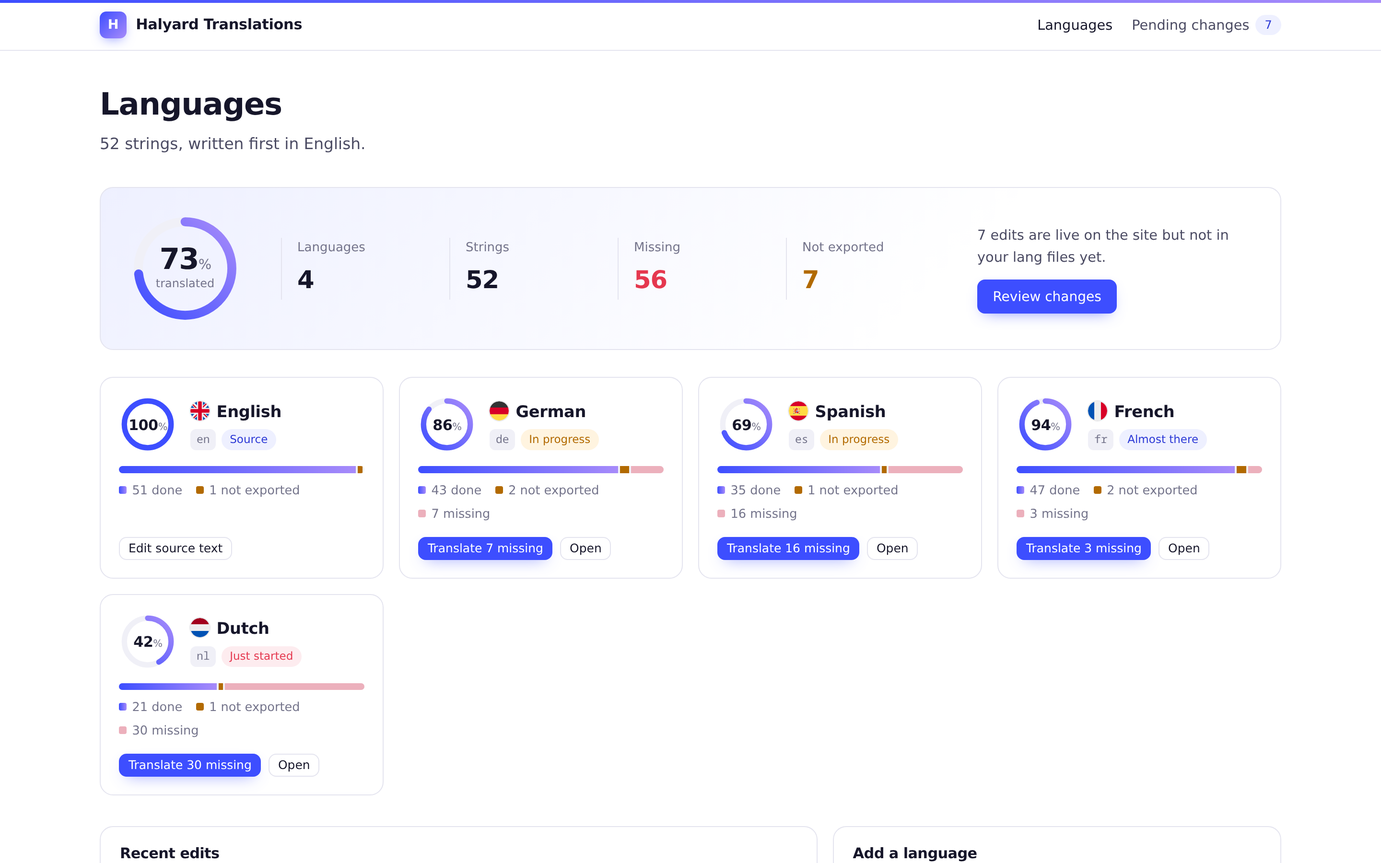
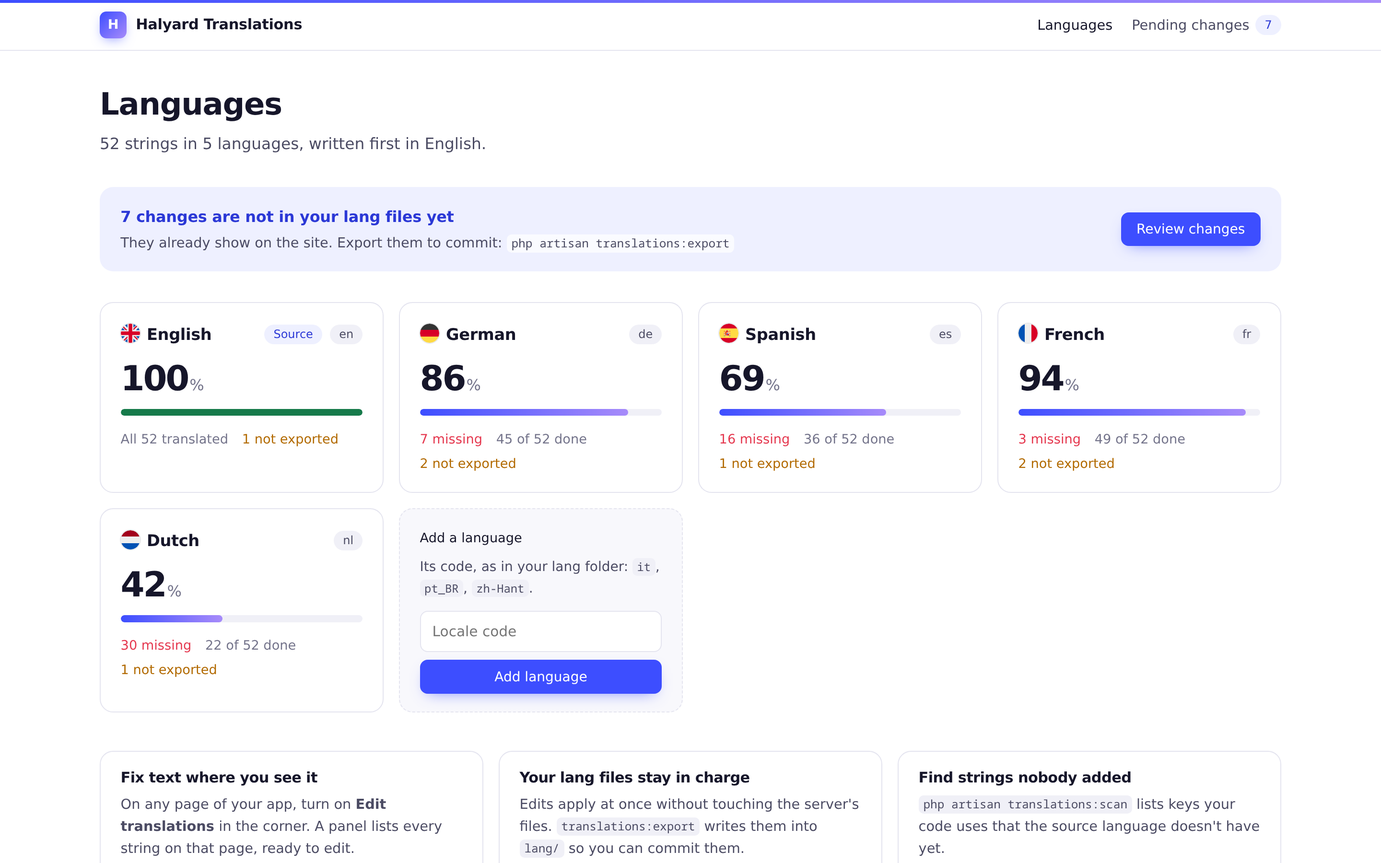
Languages dashboard: back to the 1.0 layout, keeping the round flags

diff --git a/demo/demo.js b/demo/demo.js
@@ -53,7 +53,7 @@
 
     document.addEventListener('DOMContentLoaded', () => {
         // The locale switcher submits to the overview with ?locale=xx.
-        if (params.get('locale') && document.querySelector('.trans-langs')) {
+        if (params.get('locale') && document.querySelector('.trans-cards')) {
             location.replace(location.pathname.replace(/\/?$/, '/') + encodeURIComponent(params.get('locale')) + '/');
             return;
         }

diff --git a/resources/views/index.blade.php b/resources/views/index.blade.php
@@ -3,160 +3,83 @@
 @section('title', 'Languages')
 
 @section('translations')
-    @php
-        $sourceProgress = $locales->firstWhere('code', $source)['progress'] ?? null;
-        $initials = fn (string $name) => collect(explode(' ', $name))->map(fn ($part) => mb_substr($part, 0, 1))->take(2)->implode('');
-        $status = fn ($progress) => match (true) {
-            $progress->isSource => ['Source', 'source'],
-            $progress->isComplete() => ['Complete', 'done'],
-            $progress->percent() >= 90 => ['Almost there', 'close'],
-            $progress->percent() >= 50 => ['In progress', 'going'],
-            default => ['Just started', 'early'],
-        };
-        // Ring geometry: r = 26, so the circumference is 2πr.
-        $circumference = 2 * M_PI * 26;
-    @endphp
+    @php($sourceProgress = $locales->firstWhere('code', $source)['progress'] ?? null)
 
     <div class="trans-head">
         <div>
             <h1>Languages</h1>
             <p class="trans-lede">
-                {{ number_format($sourceProgress?->total ?? 0) }} {{ ($sourceProgress?->total ?? 0) === 1 ? 'string' : 'strings' }}, written first in {{ \Ruvelo\Translations\Translations::localeName($source) }}.
+                {{ number_format($sourceProgress?->total ?? 0) }} {{ ($sourceProgress?->total ?? 0) === 1 ? 'string' : 'strings' }} in {{ $locales->count() }} {{ $locales->count() === 1 ? 'language' : 'languages' }}, written first in {{ \Ruvelo\Translations\Translations::localeName($source) }}.
             </p>
         </div>
     </div>
 
-    <svg width="0" height="0" style="position:absolute" aria-hidden="true" focusable="false">
-        <defs>
-            <linearGradient id="trans-ring-gradient" x1="0" y1="0" x2="1" y2="1">
-                <stop offset="0" style="stop-color: var(--trans-accent)"/>
-                <stop offset="1" style="stop-color: var(--trans-accent-2)"/>
-            </linearGradient>
-        </defs>
-    </svg>
-
-    <section class="trans-summary" aria-label="Summary">
-        <div class="trans-summary-ring">
-            <svg viewBox="0 0 64 64" aria-hidden="true">
-                <circle class="trans-ring-track" cx="32" cy="32" r="26"/>
-                <circle class="trans-ring-value" cx="32" cy="32" r="26" stroke-dasharray="{{ round($circumference * $overall['percent'] / 100, 2) }} {{ round($circumference, 2) }}"/>
-            </svg>
-            <span><strong>{{ $overall['percent'] }}<small>%</small></strong>translated</span>
+    @if ($pending > 0)
+        <div class="trans-callout">
+            <div>
+                <strong>{{ $pending }} {{ $pending === 1 ? 'change is' : 'changes are' }} not in your lang files yet</strong>
+                <p>They already show on the site. Export them to commit: <code>php artisan translations:export</code></p>
+            </div>
+            <a class="trans-btn" href="{{ route('translations.changes') }}">Review changes</a>
         </div>
-        <dl class="trans-summary-stats">
-            <div><dt>Languages</dt><dd>{{ $overall['languages'] }}</dd></div>
-            <div><dt>Strings</dt><dd>{{ number_format($sourceProgress?->total ?? 0) }}</dd></div>
-            <div><dt>Missing</dt><dd @class(['is-missing' => $overall['missing'] > 0])>{{ number_format($overall['missing']) }}</dd></div>
-            <div><dt>Not exported</dt><dd @class(['is-changed' => $pending > 0])>{{ number_format($pending) }}</dd></div>
-        </dl>
-        @if ($pending > 0)
-            <div class="trans-summary-action">
-                <p>{{ $pending === 1 ? 'One edit is' : $pending.' edits are' }} live on the site but not in your lang files yet.</p>
-                <a class="trans-btn" href="{{ route('translations.changes') }}">Review changes</a>
-            </div>
-        @else
-            <div class="trans-summary-action">
-                <p>Your lang files hold every edit. Nothing to export.</p>
-            </div>
-        @endif
-    </section>
+    @endif
 
-    <ul class="trans-langs">
+    <ul class="trans-cards">
         @foreach ($locales as $locale)
-            @php
-                $progress = $locale['progress'];
-                [$label, $tone] = $status($progress);
-                $percent = $progress->percent();
-                $done = max(0, $progress->translated - $progress->pending);
-                $width = fn (int $count) => $progress->total > 0 ? round($count / $progress->total * 100, 2) : 0;
-            @endphp
-            <li class="trans-lang trans-lang--{{ $tone }}">
-                <a class="trans-lang-link" href="{{ route('translations.editor', $locale['code']) }}" aria-label="Open {{ $locale['name'] }}">
-                    <span class="trans-lang-ring">
-                        <svg viewBox="0 0 64 64" aria-hidden="true">
-                            <circle class="trans-ring-track" cx="32" cy="32" r="26"/>
-                            <circle class="trans-ring-value" cx="32" cy="32" r="26" stroke-dasharray="{{ round($circumference * $percent / 100, 2) }} {{ round($circumference, 2) }}"/>
-                        </svg>
-                        <span>{{ $percent }}<small>%</small></span>
-                    </span>
-                    <span class="trans-lang-name">
+            @php($progress = $locale['progress'])
+            <li>
+                <a class="trans-card" href="{{ route('translations.editor', $locale['code']) }}">
+                    <span class="trans-card-top">
                         <strong>@if ($flag = \Ruvelo\Translations\Support\Flags::for($locale['code']))<img class="trans-flag" src="{{ $flag }}" alt="" width="20" height="20">@endif{{ $locale['name'] }}</strong>
-                        <span class="trans-lang-tags">
-                            <span class="trans-code">{{ $locale['code'] }}</span>
-                            <span class="trans-status trans-status--{{ $tone }}">{{ $label }}</span>
-                        </span>
+                        @if ($progress->isSource)
+                            <span class="trans-chip">Source</span>
+                        @endif
+                        <span class="trans-chip trans-chip--quiet">{{ $locale['code'] }}</span>
+                    </span>
+                    <span class="trans-percent">{{ $progress->percent() }}<small>%</small></span>
+                    <span class="trans-meter @if ($progress->isComplete()) trans-meter--done @endif" role="progressbar" aria-label="{{ $locale['name'] }} translated" aria-valuemin="0" aria-valuemax="100" aria-valuenow="{{ $progress->percent() }}"><span style="width: {{ $progress->percent() }}%"></span></span>
+                    <span class="trans-card-meta">
+                        @if ($progress->isComplete())
+                            <span>All {{ number_format($progress->total) }} translated</span>
+                        @else
+                            <span class="is-missing">{{ number_format($progress->missing()) }} missing</span>
+                            <span>{{ number_format($progress->translated) }} of {{ number_format($progress->total) }} done</span>
+                        @endif
+                        @if ($progress->pending > 0)
+                            <span class="is-changed">{{ $progress->pending }} not exported</span>
+                        @endif
                     </span>
                 </a>
-
-                <div class="trans-segments" role="img" aria-label="{{ number_format($done) }} translated, {{ number_format($progress->pending) }} not exported, {{ number_format($progress->missing()) }} missing">
-                    <span class="seg-done" style="width: {{ $width($done) }}%"></span>
-                    <span class="seg-pending" style="width: {{ $width($progress->pending) }}%"></span>
-                    <span class="seg-missing" style="width: {{ $width($progress->missing()) }}%"></span>
-                </div>
-                <p class="trans-legend">
-                    <span><i class="seg-done"></i>{{ number_format($done) }} done</span>
-                    @if ($progress->pending > 0)<span><i class="seg-pending"></i>{{ number_format($progress->pending) }} not exported</span>@endif
-                    @if ($progress->missing() > 0)<span><i class="seg-missing"></i>{{ number_format($progress->missing()) }} missing</span>@endif
-                </p>
-
-                <div class="trans-lang-actions">
-                    @if (! $progress->isSource && $progress->missing() > 0)
-                        <a class="trans-btn trans-btn--small" href="{{ route('translations.editor', ['locale' => $locale['code'], 'filter' => 'missing']) }}">Translate {{ number_format($progress->missing()) }} missing</a>
-                    @endif
-                    <a class="trans-btn trans-btn--quiet trans-btn--small" href="{{ route('translations.editor', $locale['code']) }}">{{ $progress->isSource ? 'Edit source text' : 'Open' }}</a>
-                </div>
             </li>
         @endforeach
+        <li>
+            <div class="trans-card trans-card--add">
+                <form method="post" action="{{ route('translations.locales.store') }}">
+                    @csrf
+                    <label for="trans-new-locale">Add a language</label>
+                    <p>Its code, as in your lang folder: <code>it</code>, <code>pt_BR</code>, <code>zh-Hant</code>.</p>
+                    <input id="trans-new-locale" type="text" name="code" value="{{ old('code') }}" placeholder="Locale code" required maxlength="20" autocomplete="off" spellcheck="false" @error('code') aria-invalid="true" aria-describedby="trans-new-locale-error" @enderror>
+                    @error('code')
+                        <p class="trans-error" id="trans-new-locale-error">{{ $message }}</p>
+                    @enderror
+                    <button type="submit">Add language</button>
+                </form>
+            </div>
+        </li>
     </ul>
 
-    <div class="trans-split">
-        <section class="trans-panel" aria-labelledby="trans-recent-title">
-            <h2 id="trans-recent-title">Recent edits</h2>
-            @if ($recent === [])
-                <p class="trans-empty">No edits waiting for export. Changes made here or in context will show up as they happen.</p>
-            @else
-                <ol class="trans-feed">
-                    @foreach ($recent as $entry)
-                        @php($editor = $editors[$entry->override?->updated_by ?? ''] ?? null)
-                        <li>
-                            <span class="trans-avatar" aria-hidden="true">{{ $editor !== null ? $initials($editor) : '?' }}</span>
-                            <div>
-                                <p><strong>{{ $editor ?? 'Someone' }}</strong> changed <a href="{{ route('translations.editor', ['locale' => $entry->locale, 'q' => $entry->key->item]) }}#{{ $entry->id() }}"><code>{{ $entry->key->item }}</code></a> in @if ($flag = \Ruvelo\Translations\Support\Flags::for($entry->locale))<img class="trans-flag trans-flag--small" src="{{ $flag }}" alt="" width="14" height="14">@endif{{ \Ruvelo\Translations\Translations::localeName($entry->locale) }}</p>
-                                <p class="trans-feed-value">{{ \Illuminate\Support\Str::limit((string) $entry->value(), 90) }}</p>
-                                @if ($entry->warnings() !== [])
-                                    <p class="trans-feed-warn">{{ $entry->warnings()[0] }}</p>
-                                @endif
-                            </div>
-                            @if ($entry->override?->updated_at)
-                                <time datetime="{{ $entry->override->updated_at->toIso8601String() }}">{{ $entry->override->updated_at->diffForHumans(short: true) }}</time>
-                            @endif
-                        </li>
-                    @endforeach
-                </ol>
-                @if ($pending > count($recent))
-                    <a class="trans-more" href="{{ route('translations.changes') }}">See all {{ number_format($pending) }} changes</a>
-                @endif
-            @endif
+    <div class="trans-tips">
+        <section class="trans-tip">
+            <h2>Fix text where you see it</h2>
+            <p>On any page of your app, turn on <strong>Edit translations</strong> in the corner. A panel lists every string on that page, ready to edit.</p>
         </section>
-
-        <section class="trans-panel trans-panel--add" aria-labelledby="trans-add-title">
-            <h2 id="trans-add-title">Add a language</h2>
-            <form method="post" action="{{ route('translations.locales.store') }}">
-                @csrf
-                <label for="trans-new-locale">Its code, as in your lang folder: <code>it</code>, <code>pt_BR</code>, <code>zh-Hant</code>.</label>
-                <div class="trans-add-row">
-                    <input id="trans-new-locale" type="text" name="code" value="{{ old('code') }}" placeholder="it" required maxlength="20" autocomplete="off" spellcheck="false" @error('code') aria-invalid="true" aria-describedby="trans-new-locale-error" @enderror>
-                    <button type="submit">Add</button>
-                </div>
-                @error('code')
-                    <p class="trans-error" id="trans-new-locale-error">{{ $message }}</p>
-                @enderror
-            </form>
-            <ul class="trans-hints">
-                <li><strong>Edit in context.</strong> Turn on <em>Edit translations</em> on any page of your app to fix the strings you see.</li>
-                <li><strong>Find missing keys.</strong> <code>php artisan translations:scan</code></li>
-                <li><strong>Commit your edits.</strong> <code>php artisan translations:export</code></li>
-            </ul>
+        <section class="trans-tip">
+            <h2>Your lang files stay in charge</h2>
+            <p>Edits apply at once without touching the server's files. <code>translations:export</code> writes them into <code>lang/</code> so you can commit them.</p>
+        </section>
+        <section class="trans-tip">
+            <h2>Find strings nobody added</h2>
+            <p><code>php artisan translations:scan</code> lists keys your code uses that the source language doesn't have yet.</p>
         </section>
     </div>
 @endsection

diff --git a/resources/views/partials/styles.blade.php b/resources/views/partials/styles.blade.php
@@ -219,89 +219,7 @@
         .trans-progress .trans-meter { width: 6rem; }
     }
 
-    /* Languages dashboard ------------------------------------------------ */
-    .trans-ring-track { fill: none; stroke: var(--trans-muted); stroke-width: 6; }
-    .trans-ring-value { fill: none; stroke: url(#trans-ring-gradient); stroke-width: 6; stroke-linecap: round; transform: rotate(-90deg); transform-origin: 50% 50%; transition: stroke-dasharray .6s ease; }
-
-    .trans-summary { display: grid; grid-template-columns: auto minmax(0, 1fr) minmax(0, 18rem); gap: 1.5rem 2.5rem; align-items: center; padding: 1.5rem 1.75rem; margin: 0 0 1.75rem; border: 1px solid var(--trans-line); border-radius: var(--trans-radius-lg); background: linear-gradient(135deg, var(--trans-accent-soft), var(--trans-bg) 70%); }
-    .trans-summary-ring { position: relative; width: 7.5rem; height: 7.5rem; }
-    .trans-summary-ring svg { width: 100%; height: 100%; display: block; }
-    .trans-summary-ring .trans-ring-track, .trans-summary-ring .trans-ring-value { stroke-width: 5; }
-    .trans-summary-ring > span { position: absolute; inset: 0; display: grid; place-content: center; text-align: center; font-size: .75rem; color: var(--trans-text-3); }
-    .trans-summary-ring strong { display: block; font-size: 1.9rem; font-weight: 600; letter-spacing: -.03em; color: var(--trans-ink); line-height: 1; }
-    .trans-summary-ring small { font-size: .9rem; font-weight: 500; color: var(--trans-text-3); }
-    .trans-summary-stats { display: grid; grid-template-columns: repeat(4, minmax(0, 1fr)); gap: 1rem; margin: 0; }
-    .trans-summary-stats div { border-left: 1px solid var(--trans-line); padding-left: 1rem; }
-    .trans-summary-stats dt { font-size: .8125rem; color: var(--trans-text-3); }
-    .trans-summary-stats dd { margin: .2rem 0 0; font-size: 1.6rem; font-weight: 600; letter-spacing: -.02em; }
-    .trans-summary-stats dd.is-missing { color: var(--trans-danger); }
-    .trans-summary-stats dd.is-changed { color: var(--trans-warning); }
-    .trans-summary-action p { margin: 0 0 .75rem; color: var(--trans-text-2); font-size: .9rem; }
-
-    .trans-langs { list-style: none; margin: 0 0 2rem; padding: 0; display: grid; grid-template-columns: repeat(auto-fill, minmax(17rem, 1fr)); gap: 1rem; }
-    .trans-lang { display: flex; flex-direction: column; gap: .85rem; padding: 1.15rem 1.2rem; border: 1px solid var(--trans-line); border-radius: var(--trans-radius-lg); background: var(--trans-bg); transition: border-color .2s, box-shadow .2s; }
-    .trans-lang:hover { border-color: color-mix(in srgb, var(--trans-accent) 35%, var(--trans-line)); box-shadow: 0 18px 40px -30px color-mix(in srgb, var(--trans-accent) 70%, transparent); }
-    .trans-lang-link { display: flex; align-items: center; gap: .9rem; color: inherit; text-decoration: none; }
-    .trans-lang-link:hover { text-decoration: none; }
-    .trans-lang-link:hover .trans-lang-name strong { color: var(--trans-accent-ink); }
-    .trans-lang-ring { position: relative; flex: none; width: 3.75rem; height: 3.75rem; }
-    .trans-lang-ring svg { width: 100%; height: 100%; display: block; }
-    .trans-lang-ring > span { position: absolute; inset: 0; display: flex; align-items: baseline; justify-content: center; padding-top: 1.2rem; font-weight: 600; font-size: .95rem; letter-spacing: -.02em; color: var(--trans-ink); }
-    .trans-lang-ring small { font-size: .65rem; color: var(--trans-text-3); font-weight: 500; }
-    .trans-lang-name strong { color: var(--trans-ink); display: block; font-size: 1.05rem; font-weight: 600; letter-spacing: -.01em; }
     .trans-flag { display: inline-block; width: 1.25rem; height: 1.25rem; border-radius: 50%; vertical-align: -.2em; margin-right: .45rem; box-shadow: 0 0 0 1px color-mix(in srgb, var(--trans-ink) 10%, transparent); }
     .trans-flag--small { width: .9rem; height: .9rem; margin-right: .3rem; vertical-align: -.12em; }
     .trans-flag--large { width: 2.1rem; height: 2.1rem; margin-right: .65rem; vertical-align: -.3em; }
-    .trans-lang-tags { display: flex; flex-wrap: wrap; gap: .35rem; margin-top: .3rem; }
-    .trans-code { font: .72rem var(--trans-mono); color: var(--trans-text-3); background: var(--trans-muted); border-radius: 6px; padding: .1rem .4rem; }
-    .trans-status { font-size: .72rem; font-weight: 500; border-radius: 999px; padding: .1rem .55rem; }
-    .trans-status--source { color: var(--trans-accent-ink); background: var(--trans-accent-soft); }
-    .trans-status--done { color: var(--trans-success); background: var(--trans-success-soft); }
-    .trans-status--close { color: var(--trans-accent-ink); background: var(--trans-accent-soft); }
-    .trans-status--going { color: var(--trans-warning); background: var(--trans-warning-soft); }
-    .trans-status--early { color: var(--trans-danger); background: var(--trans-danger-soft); }
-    .trans-lang--done .trans-ring-value, .trans-lang--source .trans-ring-value { stroke: var(--trans-success); }
-    .trans-lang--source .trans-ring-value { stroke: var(--trans-accent); }
-
-    .trans-segments { display: flex; height: .45rem; border-radius: 999px; overflow: hidden; background: var(--trans-muted); gap: 2px; }
-    .trans-segments span { display: block; height: 100%; min-width: 0; }
-    .seg-done { background: linear-gradient(90deg, var(--trans-accent), var(--trans-accent-2)); }
-    .seg-pending { background: var(--trans-warning); }
-    .seg-missing { background: color-mix(in srgb, var(--trans-danger) 35%, var(--trans-muted)); }
-    .trans-legend { display: flex; flex-wrap: wrap; gap: .25rem .9rem; margin: -.35rem 0 0; font-size: .8rem; color: var(--trans-text-3); }
-    .trans-legend i { display: inline-block; width: .5rem; height: .5rem; border-radius: 2px; margin-right: .35rem; vertical-align: .05em; }
-    .trans-lang-actions { display: flex; flex-wrap: wrap; gap: .5rem; margin-top: auto; }
-
-    .trans-split { display: grid; grid-template-columns: minmax(0, 1.6fr) minmax(0, 1fr); gap: 1rem; align-items: start; }
-    .trans-panel { border: 1px solid var(--trans-line); border-radius: var(--trans-radius-lg); padding: 1.15rem 1.25rem; background: var(--trans-bg); }
-    .trans-panel h2 { font-size: .95rem; font-weight: 600; margin: 0 0 .75rem; }
-    .trans-empty { margin: 0; color: var(--trans-text-3); font-size: .9rem; }
-    .trans-feed { list-style: none; margin: 0; padding: 0; }
-    .trans-feed li { display: grid; grid-template-columns: auto minmax(0, 1fr) auto; gap: .75rem; align-items: start; padding: .7rem 0; border-top: 1px solid var(--trans-line); }
-    .trans-feed li:first-child { border-top: 0; padding-top: 0; }
-    .trans-feed p { margin: 0; font-size: .875rem; color: var(--trans-text-2); overflow-wrap: anywhere; }
-    .trans-feed p strong { color: var(--trans-ink); font-weight: 500; }
-    .trans-feed code { font-size: .8rem; }
-    .trans-feed .trans-feed-value { color: var(--trans-text-3); margin-top: .15rem; }
-    .trans-feed .trans-feed-warn { display: inline-block; margin-top: .35rem; font-size: .78rem; color: var(--trans-warning); background: var(--trans-warning-soft); border-radius: 999px; padding: .1rem .55rem; }
-    .trans-feed time { font-size: .78rem; color: var(--trans-text-3); white-space: nowrap; }
-    .trans-more { display: inline-block; margin-top: .6rem; font-size: .875rem; }
-    .trans-panel--add label { display: block; font-size: .85rem; color: var(--trans-text-2); font-weight: 400; margin: 0 0 .5rem; }
-    .trans-add-row { display: flex; gap: .5rem; }
-    .trans-add-row input { flex: 1; min-width: 0; }
-    .trans-hints { list-style: none; margin: 1.1rem 0 0; padding: 1rem 0 0; border-top: 1px solid var(--trans-line); display: grid; gap: .55rem; font-size: .85rem; color: var(--trans-text-2); }
-    .trans-hints strong { color: var(--trans-ink); font-weight: 500; }
-
-    @media (max-width: 64rem) {
-        .trans-summary { grid-template-columns: auto minmax(0, 1fr); }
-        .trans-summary-action { grid-column: 1 / -1; display: flex; align-items: center; justify-content: space-between; gap: 1rem; }
-        .trans-summary-action p { margin: 0; }
-        .trans-split { grid-template-columns: minmax(0, 1fr); }
-    }
-    @media (max-width: 40rem) {
-        .trans-summary { grid-template-columns: minmax(0, 1fr); justify-items: start; padding: 1.25rem; }
-        .trans-summary-stats { grid-template-columns: repeat(2, minmax(0, 1fr)); width: 100%; }
-        .trans-summary-action { flex-direction: column; align-items: flex-start; }
-    }
-    @media (prefers-reduced-motion: reduce) { .trans-ring-value { transition: none; } }
 </style>

diff --git a/tests/Feature/EditorTest.php b/tests/Feature/EditorTest.php
@@ -28,19 +28,9 @@ class EditorTest extends TestCase
 
         $this->get('/translations')
             ->assertOk()
-            ->assertSeeInOrder(['100', 'English', 'Source', '10', 'German', 'Just started', '9 missing', '70', 'French', 'In progress', '1 not exported', '3 missing'], false)
-            ->assertSee('One edit is live on the site but not in your lang files yet.')
-            ->assertSee('Translate 3 missing')
-            ->assertSee(route('translations.editor', ['locale' => 'fr', 'filter' => 'missing']), false)
-            ->assertSeeInOrder(['Recent edits', 'changed', 'Sign out', 'in French', 'Se déconnecter'], false)
+            ->assertSeeInOrder(['English', 'Source', '100', 'German', '10', '9 missing', 'French', '70', '3 missing', '1 not exported'], false)
+            ->assertSee('1 change is not in your lang files yet')
             ->assertSee('Add a language');
-    }
-
-    public function test_the_recent_edits_feed_flags_placeholder_problems(): void
-    {
-        Translations::set('fr', 'Welcome back, :name!', 'Bon retour !');
-
-        $this->get('/translations')->assertOk()->assertSee('trans-feed-warn', false)->assertSee(':name');
     }
 
     public function test_the_editor_lists_source_and_translation(): void

diff --git a/src/Http/Controllers/OverviewController.php b/src/Http/Controllers/OverviewController.php
@@ -25,26 +25,10 @@ class OverviewController
             'progress' => Translations::progress($locale),
         ]);
 
-        // Overall progress counts every string in every language but the
-        // source, so a big, nearly empty language weighs what it should.
-        $targets = $locales->reject(fn (array $locale) => $locale['progress']->isSource);
-        $total = $targets->sum(fn (array $locale) => $locale['progress']->total);
-        $translated = $targets->sum(fn (array $locale) => $locale['progress']->translated);
-
-        $pending = Translations::pending();
-        $recent = array_slice($pending, 0, 6);
-
         return response()->view('translations::index', [
             'locales' => $locales,
-            'pending' => count($pending),
+            'pending' => count(Translations::pending()),
             'source' => Translations::sourceLocale(),
-            'overall' => [
-                'percent' => $total > 0 ? (int) floor($translated / $total * 100) : 100,
-                'missing' => $total - $translated,
-                'languages' => $targets->count(),
-            ],
-            'recent' => $recent,
-            'editors' => Translations::editorNames($recent),
         ]);
     }
 }

diff --git a/CHANGELOG.md b/CHANGELOG.md
@@ -6,6 +6,12 @@ All notable changes to this project are documented here. The format follows
 
 ## [Unreleased]
 
+## [1.1.1] - 2026-10-08
+
+### Changed
+
+- The languages dashboard is back to its 1.0 layout. The round language flags from 1.1.0 stay, beside each language's name.
+
 ## [1.1.0] - 2026-10-08
 
 ### Added
@@ -38,6 +44,7 @@ First release.
 - Laravel Boost guidelines.
 - Ruvelo house style UI: light and dark, no build step, themable through CSS variables, usable inside your own layout.
 
-[Unreleased]: https://github.com/Ruvelo/laravel-translations/compare/v1.1.0...HEAD
+[Unreleased]: https://github.com/Ruvelo/laravel-translations/compare/v1.1.1...HEAD
+[1.1.1]: https://github.com/Ruvelo/laravel-translations/compare/v1.1.0...v1.1.1
 [1.1.0]: https://github.com/Ruvelo/laravel-translations/compare/v1.0.0...v1.1.0
 [1.0.0]: https://github.com/Ruvelo/laravel-translations/releases/tag/v1.0.0
